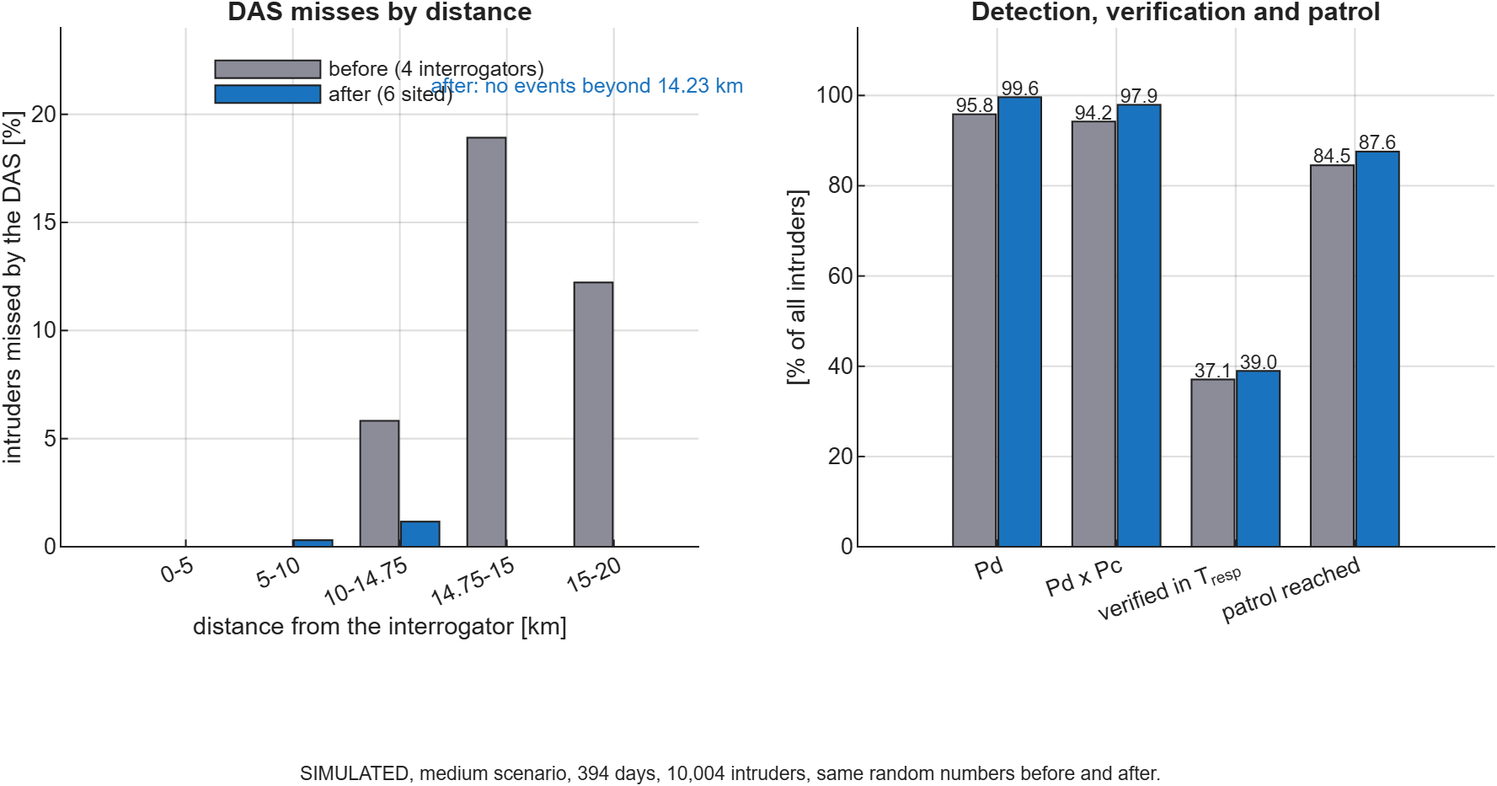
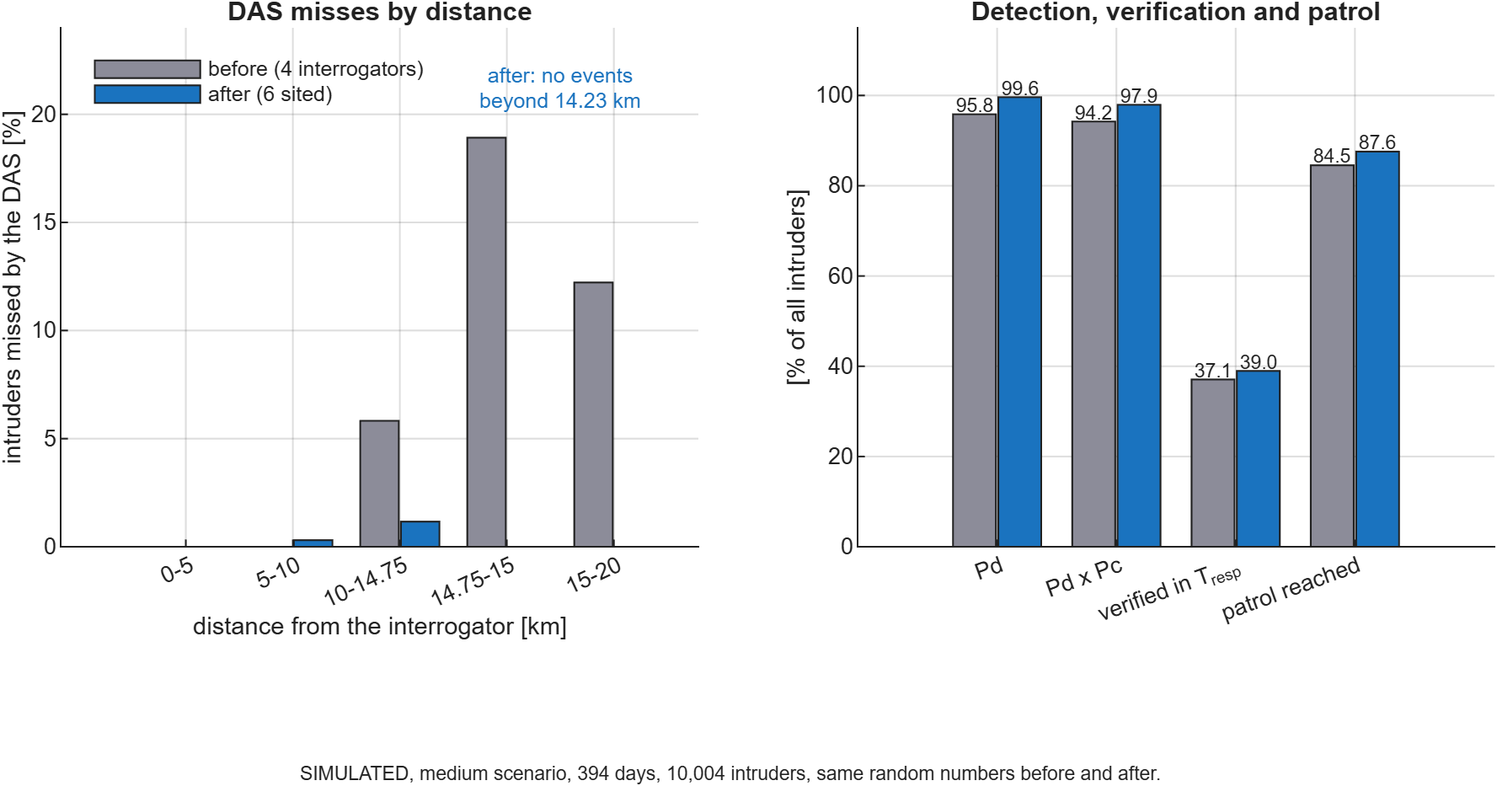
Stage 10 review fixes: open items, decisions 13-18, power total, figures, comparison.csv with shelters
- OPEN_ITEMS: current C_shelter / C_shelter_checkpoint notes; table row P_total_siting (2,040 W = 7.0 % of P0) and key_numbers.
- decisions.md: item 8 corrected, item 10 cancelled by 12, new items 13-18 (unified Pd(d) and d* rule, N = 6, site filters and checkpoint exemption, shelter cost, single verification, buried cable).
- Final package: the 4-interrogator intruder map removed; pd_curve label d* = 14.75 km; before/after chart text moved.
- comparison.csv regenerated with the shelter cost (11,853,506 -> 13,014,986).

Changed region(s): [[0.0619, 0.0622, 0.4952, 0.1554]]

diff --git a/scripts/make_final_package.py b/scripts/make_final_package.py
@@ -66,7 +66,6 @@ figs = [
     ("siting_map_medium.png", "results/siting/siting_map_medium.png", "2D map of the interrogator siting (d* = 14.75 km, N_min = 5, N = 6): candidates, chosen shelters, boundary coloured by the serving shelter. Same result in low and high."),
     ("pd_curve.png", "results/siting/pd_curve.png", "Pd against the optical distance with the monotone fit and its 95 % limits; d* = 14.75 km. SIMULATED."),
     ("stage9_before_after.png", "report/figures/stage9_before_after.png", "Stage 9 before / after the siting model (medium): DAS misses by distance, Pd, Pd x Pc, verified in T_resp, patrol reached. SIMULATED, same random numbers."),
-    ("map2d_intruders_medium_stage8.png", "report/figures/map2d_intruders_medium_stage8.png", "2D map of intruders, Stage 8 run (main model with 4 interrogators; kept for the numbers figures)."),
     ("reid_accuracy_vs_spacing.png", "results/reid/accuracy_vs_spacing.png", "Re-identification (DAS <-> camera) accuracy against the spacing of people (Yomna's protocol, SIMULATED)."),
 ]
 for dst, src, _ in figs:
@@ -89,7 +88,7 @@ for r in P:
     esc = lambda x: x.replace("|", "/").replace("\n", " ")
     md.append(f"| `{r[0]}` | {esc(r[3])} | {esc(r[4])} | {esc(r[7])} | {esc(r[9])} | {esc(r[5])[:160]} |")
 (OUT / "parameters_final.md").write_text("\n".join(md) + "\n", encoding="utf-8")
-open_items = [r for r in P if r[7].upper().startswith(("PLACEHOLDER", "TBD"))]
+open_items = [r for r in P if r[7].upper().startswith(("PLACEHOLDER", "TBD")) or r[0] == "C_shelter_checkpoint"]
 (OUT / "OPEN_ITEMS.md").write_text("# Values still PLACEHOLDER or TBD (need data, a quotation or a decision)\n\n| Symbol | Value | Unit | What is missing |\n| --- | --- | --- | --- |\n" +
                                   "\n".join(f"| `{r[0]}` | {r[3]} | {r[4]} | {r[8].split(' | ')[0][:200].replace('|', '/')} |" for r in open_items) + "\n", encoding="utf-8")
 
@@ -114,7 +113,8 @@ add("New-cabin cost C_shelter", f"{fnum(tv('C_shelter'))} SAR", par["C_shelter"]
 add("Checkpoint-room cost C_shelter_checkpoint", f"{fnum(tv('C_shelter_checkpoint'))} SAR", par["C_shelter_checkpoint"]["status"], "table row `C_shelter_checkpoint`", "25 % of C_shelter")
 add("Shelter cost of the siting solution", f"{fnum(m['shelters_SAR'])} SAR ({m['n_checkpoint_rooms']} checkpoint rooms + {m['n_new_cabins']} new cabins)", "DERIVED", "`results/siting/cost_with_shelters.csv`", "`scripts/siting_cost_table.m`")
 add("C_total, siting model", f"{fnum(m['C_total_SAR'])} SAR", "SIMULATED (MILP)", "`results/siting/cost_with_shelters.csv`; table row `C_total_siting`", f"interrogators {fnum(m['interrogators_SAR'])} + sensing fibre {fnum(m['sensing_fibre_SAR'])} + lead-in {fnum(m['leadin_fibre_SAR'])} + shelters {fnum(m['shelters_SAR'])}; C_DAS_int {fnum(tv('C_DAS_int'))}, C_fiber {tv('C_fiber')} per km (table)")
-add("C_total, main model (4 interrogators, no shelter cost)", f"{fnum([x for x in cmp_ if x['model']=='stage9' and x['scenario']=='medium'][0]['C_total'])} SAR", "SIMULATED (frozen MILP f51b223)", "`results/stage9_siting/comparison.csv` column C_total; `tests/test_stage2.m`", "reproduces optimization/report/key_results.md; computed with C_shelter = 0")
+add("C_total, main model (4 interrogators) and siting model (6), as in the Stage 9 comparison", f"{fnum([x for x in cmp_ if x['model']=='stage9' and x['scenario']=='medium'][0]['C_total'])} SAR -> {fnum([x for x in cmp_ if x['model']=='stage9_siting' and x['scenario']=='medium'][0]['C_total'])} SAR (with shelters; the main model without any shelter cost: 11,373,506)", "SIMULATED (MILP)", "`results/stage9_siting/comparison.csv` column C_total (regenerated with the shelters); `tests/test_stage2.m`", "main model solved with C_shelter = 0 (reproduces optimization/report/key_results.md); its 4 cabins (new, 120,000 each) added"
+)
 add("Cabin price sensitivity (50,000 / 120,000 / 300,000 SAR)", f"{fnum(cost['medium_shello']['C_total_SAR'])} / {fnum(m['C_total_SAR'])} / {fnum(cost['medium_shelhi']['C_total_SAR'])} SAR, same N and sites", "SIMULATED (MILP re-solved)", "`results/siting/cost_with_shelters.csv` (cases medium_shello, medium_shelhi)", "`scripts/siting_run_scn.m` with env SHEL, SHELCHK")
 add("N = 5 forced", f"C_total {fnum(cost['medium_N5']['C_total_SAR'])} SAR; 4 cells (135 of 139 with DAS) uncovered", "SIMULATED (MILP, Nfix = 5)", "`results/siting/cost_with_shelters.csv`; `results/alloc_medium_22_siting_N5.mat`", "`Siting.Nfix` option; difference to N = 6: " + fnum(float(m['C_total_SAR']) - float(cost['medium_N5']['C_total_SAR'])) + " SAR")
 add("d* = 13 km (weakest-type rule)", f"N = {cost['medium_d13']['N']}, C_total {fnum(cost['medium_d13']['C_total_SAR'])} SAR", "SIMULATED (MILP)", "`results/siting/cost_with_shelters.csv` (case medium_d13)", "`scripts/siting_run_scn.m` DSTAR=13")
@@ -147,7 +147,7 @@ for n, v, t, f, h in S:
     e = lambda x: str(x).replace("|", "/")
     lines.append(f"| {e(n)} | {e(v)} | {e(t)} | {e(f)} | {e(h)} |")
 lines += ["", "## Notes",
-          "* Costs: `results/stage9_siting/comparison.csv` still stores C_total = 12,654,986 for the siting model (the Stage 9 rerun was made before the shelter cost was added); the current cost is `results/siting/cost_with_shelters.csv` (13,014,986). The allocation did not change, so no Stage 9 result changed.",
+          "* Costs: `results/stage9_siting/comparison.csv` was regenerated on 24 Nov 2026 with the shelters (main model 11,853,506 = 11,373,506 + 4 new cabins; siting 13,014,986). The allocation did not change, so no Stage 9 result changed.",
           "* All SIMULATED values depend on ASSUMED inputs (coupling spread, intruder rates, speeds); they are results of the model, not measurements. Phase 0 (field measurements) is where they would be replaced.",
           "* Frozen sources: see `third_party/PROVENANCE.md` for every repository, commit and date."]
 (OUT / "SOURCE_MAP.md").write_text("\n".join(lines) + "\n", encoding="utf-8")
@@ -170,7 +170,7 @@ print("package built:", OUT, "| parameter rows", len(P), "| PLACEHOLDER", len(op
 | `OPEN_ITEMS.md` | the rows that are still PLACEHOLDER or TBD |
 | `ai_summary.md` | summary of the AI part (classifier, re-identification, height) with its literature |
 | `assumptions.md`, `decisions.md` | why each assumption / design decision was taken |
-| `figures/` | final figures with `CAPTIONS.md` (3D light and dark, overview and zoom; siting map; Pd(d) curve; Stage 9 before / after; re-identification; 2D intruder map) |
+| `figures/` | final figures with `CAPTIONS.md` (3D light and dark, overview and zoom; siting map; Pd(d) curve; Stage 9 before / after; re-identification) |
 | `tables/` | the CSV / JSON files behind the numbers (cost with shelters, sites, Pd curve, d* rule, Stage 9 comparison) |
 
 Rebuild with `python scripts/make_final_package.py`. Everything is SIMULATED unless a row says it is sourced; frozen sources and commits are in `third_party/PROVENANCE.md`.

diff --git a/scripts/final_stage9_chart.m b/scripts/final_stage9_chart.m
@@ -8,8 +8,8 @@ fig = figure('Color', 'w', 'Units', 'centimeters', 'Position', [2 2 16 8.4], 'In
 ax = axes(fig, 'Position', [0.08 0.30 0.40 0.62]);   hold(ax, 'on');   bins = {'0-5', '5-10', '10-14.75', '14.75-15', '15-20'};   bf = strcmp(D.model, 'stage9');   af = strcmp(D.model, 'stage9_siting');
 yb = D.missed_pct(bf);   ya = zeros(5, 1);   ya(1:3) = D.missed_pct(af);   ya(4:5) = NaN;                    % after the change no event is farther than 14.23 km: the bins above 14.75 km are empty
 bar(ax, (1:5) - 0.19, yb, 0.36, 'FaceColor', cb);   bar(ax, (1:3) + 0.19, ya(1:3), 0.36, 'FaceColor', ca);   set(ax, 'XTick', 1:5, 'XTickLabel', bins, 'FontSize', 6.5, 'XTickLabelRotation', 25);   xlabel(ax, 'distance from the interrogator [km]', 'FontSize', 7);   ylabel(ax, 'intruders missed by the DAS [%]', 'FontSize', 7);
-text(ax, 4.75, 21.3, {'after: no events beyond 14.23 km'}, 'FontSize', 6, 'Color', ca, 'HorizontalAlignment', 'center');
-legend(ax, {'before (4 interrogators)', 'after (6 sited)'}, 'FontSize', 6, 'Location', 'north', 'Box', 'off');   title(ax, 'DAS misses by distance', 'FontSize', 7.5);   grid(ax, 'on');
+text(ax, 4.5, 21.2, {'after: no events', 'beyond 14.23 km'}, 'FontSize', 6, 'Color', ca, 'HorizontalAlignment', 'center');
+legend(ax, {'before (4 interrogators)', 'after (6 sited)'}, 'FontSize', 6, 'Location', 'northwest', 'Box', 'off');   title(ax, 'DAS misses by distance', 'FontSize', 7.5);   grid(ax, 'on');
 ax2 = axes(fig, 'Position', [0.58 0.30 0.40 0.62]);   hold(ax2, 'on');   mets = {'Pd', 'Pd_x_Pc', 'verified_Tresp', 'patrol_reached'};   lab = {'Pd', 'Pd x Pc', 'verified in T_{resp}', 'patrol reached'};   vb = zeros(4, 1);   va = vb;
 for k = 1:4, vb(k) = 100 * C.value(strcmp(C.model, 'stage9') & strcmp(C.metric, mets{k}));   va(k) = 100 * C.value(strcmp(C.model, 'stage9_siting') & strcmp(C.metric, mets{k})); end
 bar(ax2, (1:4) - 0.19, vb, 0.36, 'FaceColor', cb);   bar(ax2, (1:4) + 0.19, va, 0.36, 'FaceColor', ca);   set(ax2, 'XTick', 1:4, 'XTickLabel', lab, 'FontSize', 6.5, 'XTickLabelRotation', 20);   ylabel(ax2, '[% of all intruders]', 'FontSize', 7);   ylim(ax2, [0 115]);   ylim(ax, [0 24]);

diff --git a/scripts/siting_pd_analyze.m b/scripts/siting_pd_analyze.m
@@ -42,7 +42,7 @@ json = struct('Pd_target', Pt, 'rule', 'd* = farthest distance with the LOWER 95
 fid = fopen(fullfile(od, 'd_star.json'), 'w');   fprintf(fid, '%s', jsonencode(json, 'PrettyPrint', true));   fclose(fid);
 fprintf('d* (lower-95-limit rule, type MIX) = %.2f km | weakest-type rule (info) %.2f km | point-estimate rule %.2f km | upper-limit rule %.1f km | FEBUS option %d km | N_min = ceil(%.2f / %.1f) = %d\n', dstar, dstar_weak, dstar_pt, dstar_hi, opt, L, 2 * dstar, Nmin);
 fig = figure('Color', 'w', 'Position', [60 60 1000 520]);   ax = axes(fig);   hold(ax, 'on');   fill(ax, [dd(:); flipud(dd(:))], 100 * [lo; flipud(hi)], [0.75 0.85 0.95], 'EdgeColor', 'none', 'FaceAlpha', 0.7);
-plot(ax, dd, 100 * pm, 'o', 'Color', [0.05 0.3 0.7], 'MarkerSize', 4);   plot(ax, dd, 100 * fit, 'r-', 'LineWidth', 1.4);   plot(ax, dd, 100 * lo, 'b--', 'LineWidth', 1);   yline(ax, 100 * Pt, 'k--', sprintf('Pd_{DAS} = %.3f', Pt));   xline(ax, dstar, 'g-', sprintf('d* = %.1f km', dstar), 'LineWidth', 1.5);
+plot(ax, dd, 100 * pm, 'o', 'Color', [0.05 0.3 0.7], 'MarkerSize', 4);   plot(ax, dd, 100 * fit, 'r-', 'LineWidth', 1.4);   plot(ax, dd, 100 * lo, 'b--', 'LineWidth', 1);   yline(ax, 100 * Pt, 'k--', sprintf('Pd_{DAS} = %.3f', Pt));   xline(ax, dstar, 'g-', 'LineWidth', 1.5);   text(ax, dstar + 0.3, 79, sprintf('d* = %.2f km', dstar), 'Color', [0 0.55 0], 'FontWeight', 'bold', 'FontSize', 11);
 xlabel(ax, 'total optical distance from the interrogator d [km]');   ylabel(ax, 'Pd [%]');   ylim(ax, [75 101]);   grid(ax, 'on');   legend(ax, {'95 % limits of the monotone fit', 'observed Pd (type mix)', 'monotone fit', 'lower 95 % limit'}, 'Location', 'southwest');
 title(ax, 'Detection probability vs optical distance (SIMULATED, FEBUS A1-NEO, 0.2 dB/km; 80 windows per type at 0-11 and 21-25 km; 400-1,000 per type at 12-20 km)', 'FontSize', 8);
 exportgraphics(fig, fullfile(od, 'pd_curve.png'), 'Resolution', 200);   close(fig);

diff --git a/scripts/stage9_compare.m b/scripts/stage9_compare.m
@@ -8,8 +8,9 @@ for k = 1:numel(sc)
         if v == 1, A = load(fullfile(root, 'results', ['alloc_' sc{k} '_22.mat'])); else, A = load(fullfile(root, 'results', ['alloc_' sc{k} '_22_siting.mat'])); end
         ia = A.alloc.interrogators;   lead = zeros(size(ia.arc_m(:)'));   if isfield(ia, 'leadin_m'), lead = ia.leadin_m(:)'; end
         sp = r.s(E.piece);   sp = sp(:);   d = abs(sp - ia.arc_m(:)');   d = min(d, L - d) + lead;   dist = min(d, [], 2);
+        Ct = A.alloc.C_total;   if v == 1, Ct = Ct + A.alloc.n_interrogators * P.v.C_shelter; end      % C_total WITH shelters: the siting allocation includes them; the main allocation was solved with C_shelter = 0, so its 4 cabins (all new, 120,000 each) are added
         M = compute_metrics(E, FA, T, P);   m = M.rows;
-        for q = 1:numel(mets), i = find(strcmp(m.metric, mets{q}), 1);   rows = [rows; table(string(sc{k}), string(dirn{v}), string(mets{q}), m.value(i), m.lo(i), m.hi(i), A.alloc.n_interrogators, A.alloc.C_total, FA.nDays, height(E), 'VariableNames', {'scenario', 'model', 'metric', 'value', 'lo', 'hi', 'n_interrogators', 'C_total', 'days', 'events'})]; end %#ok<AGROW>
+        for q = 1:numel(mets), i = find(strcmp(m.metric, mets{q}), 1);   rows = [rows; table(string(sc{k}), string(dirn{v}), string(mets{q}), m.value(i), m.lo(i), m.hi(i), A.alloc.n_interrogators, Ct, FA.nDays, height(E), 'VariableNames', {'scenario', 'model', 'metric', 'value', 'lo', 'hi', 'n_interrogators', 'C_total', 'days', 'events'})]; end %#ok<AGROW>
         for b = 1:numel(edges) - 1
             mk = dist >= edges(b) & dist < edges(b+1);   if ~any(mk), continue; end
             byd = [byd; table(string(sc{k}), string(dirn{v}), edges(b)/1e3, edges(b+1)/1e3, nnz(mk), 100 * mean(~E.detected(mk)), 'VariableNames', {'scenario', 'model', 'from_km', 'to_km', 'events', 'missed_pct'})]; end %#ok<AGROW>

diff --git a/report/decisions.md b/report/decisions.md
@@ -7,8 +7,14 @@
 5. **Profiling naming and use of height** (Yomna, 22 Nov): 0.4 m is a *channel spacing*; SNR is computed with her `detection_snr_db`, and the 12 dB threshold comes from simulation (the real value is measured in Phase 0); height is exploratory (+/- 8 cm), used only to exclude a match (difference >= `dh_reid_max` = 25 cm, parameter), never to identify or confirm a person. The primary claim of the DAS is stride length, speed and cadence.
 6. **DASViT1D** accuracy (93.5 %, published) is for another device and site (Brno dataset); accuracy on FEBUS is unknown until tested on real data.
 7. **Simulated Pd_DAS is a result next to the literature value** (user decision 22 Nov): the library gives 0.977 for intrusion types (`tests/test_stage4.m`) next to the literature Pd_DAS = 0.969 (`zeng2024`). The optimization keeps the literature value. The 0.977 depends on the ASSUMED amplitudes and the ASSUMED ground-coupling spread (log-normal, sigma 0.4): with a lower mean coupling or a larger spread it falls, so it must not replace Pd_DAS until it is calibrated on real recordings (Phase 0).
-8. **Maps** show Esri World Imagery (attribution printed on every figure; the Esri terms for this use are still to be confirmed), the named places (Masjid al-Haram, Jamarat, Mina, Muzdalifah, Arafat), the five covered entrance checkpoints by name, a 10 km scale bar and a north arrow.
+8. **Maps** show Esri World Imagery (attribution printed on every figure; the Esri terms for this use are still to be confirmed), the named places (Masjid al-Haram, Jamarat, Mina, Muzdalifah, Arafat), the entrance checkpoints by name (Al-Sharaye, Al-Hada, Al-Nawariyah, Al-Shumaisi (new), Al-Shumaisi old (Hudaybiyah)), a scale bar (3 km on the 3D overview, 2 km on the 3D zoom, 10 km on the 2D maps) and a north arrow. Corrected 24 Nov 2026 (it said a 10 km bar and five checkpoints).
 9. **Class "other"** (longboard, open/close, plus nothing else): kept as its own class in training; in the simulation it means "non-intrusion, no alarm". The report states how much of it is classified as a threat (user decision 22 Nov).
-10. **Manipulation is a threat** (tampering with the fibre or the fence disables the monitoring system): merged with fence/impact into one class "climbing" = interaction with the fence or the fibre. Mapping to our classes: walking, running, vehicle, construction -> digging, fence + manipulation -> climbing, regular -> no_event, longboard + open/close -> other. Class animal has NO training data (PLACEHOLDER).
+10. **Manipulation is a threat** (tampering with the fibre or the fence disables the monitoring system): merged with fence/impact into one class "climbing" = interaction with the fence or the fibre. Mapping to our classes: walking, running, vehicle, construction -> digging, fence + manipulation -> climbing, regular -> no_event, longboard + open/close -> other. Class animal has NO training data (PLACEHOLDER). **CANCELLED by decision 12** (manipulation = `tampering`, longboard + open/close = `other`).
 11. **Evaluation split** (Yomna + user): leave-one-recording-out, never random windows. The random-window accuracy is also computed to show how much it inflates the published 93.5 %. The split file of DASViT1D (`splits/split_indices.pkl`) is not used.
 12. **Class map and splits follow Yomna's protocol (23 Nov).** `config/class_map.yaml` (nothing dropped silently; longboard and open/close are merged into the documented non-alarm class `other`; manipulation = `tampering`, changing decision 10), `config/splits.json` (written once, seed 20261122) and `config/splits_addendum.json` (single-recording diagnostic 80 / gap / 20). Re-identification (`reidentify`) is Yomna's: not started here until her design arrives.
+13. **One Pd(d) model for the optimization and the simulation, and the d\* rule (23 Nov 2026).** `results/siting/pd_model.mat` (monotone, isotonic Pd against the total optical distance, per intruder type, from the windows of the frozen engine) is used both to derive d\* and by `das_observe` for the detection decision (private random stream seeded from the event, so the common random numbers are kept). **Rule fixed before the dense run (table row `siting_dstar_rule`):** d\* = the farthest distance up to which the lower 95 % limit of the monotone Pd(d), taken on the **overall Pd with the type shares of the Stage 9 run** (walking 49.6 %, running 19.1 %, vehicle 15.6 %, digging 5.4 %, climbing 10.3 %), stays at or above Pd_DAS = 0.969. **Result: d\* = 14.75 km** (weakest-type rule 13 km, point estimate 15 km, upper limit 17 km, first coarse run 17 km; shown for comparison only). Why: the first Stage 9 gave Pd 95.8 % while the optimization assumed 0.969 at every distance; the cause was the 12-window library with nearest-bin lookup (mix Pd 0.854 at the 15 km bin against 0.975 in the dense run).
+14. **N = 6 interrogators (23 Nov 2026).** Analytic minimum N_min = ceil(145.47 / (2 x 14.75)) = 5. The MILP with candidate shelters gives 6 in low, medium and high (same six sites, boundary arcs 8.70, 29.58, 58.44, 85.95, 108.90, 125.19 km): with N = 5 forced the stage-1 coverage term is still violated, 4 cells (about 4.1-4.2 km) stay without DAS; N = 7 is what the weakest-type rule (d\* = 13 km) gives. The slack of N = 5 is only 0.2 km per side (14.75 against 14.55 km). Eight siting sensitivities (slope, road, waterway, inside distance) all give N = 6. The old main model (4 interrogators) is kept for comparison.
+15. **Shelter site filters and the checkpoint exemption (23 Nov 2026).** A road-site shelter must stand inside the boundary polygon 50-200 m from the boundary line, within 200 m of a road, on a slope below 10 %, at least 50 m from an OSM waterway, at most one candidate per 300 m of arc (all ASSUMED, table rows `siting_*`). The five entrance checkpoints are always candidates whatever the filters say (row `siting_checkpoint_exempt`): they already have a building, power, access and staff. The Al-Shumaisi (new) checkpoint has a slope of 15.3 % and is used for that reason. Lead-in fibre = 1.4 x the straight distance, added to the cost and to the optical distance.
+16. **Shelter cost and cooling (24 Nov 2026).** Every interrogator needs an air-conditioned shelter (5-40 degC). C_shelter = 120,000 SAR per new cabin (PLACEHOLDER: no Saudi price found, needs a quotation); at an entrance checkpoint 30,000 SAR (ASSUMED, existing building). Six sites: 4 checkpoint rooms + 2 new cabins = 360,000 SAR; C_total 13,014,986 SAR. Cooling 170 W per cabin (50 % of the site load, gsma_coolsure) is part of the power: 6 x (170 + 170) = 2,040 W = 7.0 % of P0 = 29,100 W. N and the sites do not change for cabin prices of 50,000-300,000 SAR.
+17. **Single verification before a patrol (Stage 6).** Dual verification (a second check by another drone or camera before sending a patrol) was tested as options B (everywhere) and C (Neutral and Cold only) and rejected: in the medium scenario it lowers the false patrols by only 0 to 13 % (0.200 -> 0.199 per km per day) while the patrol reached falls from 87.5 % to 59.6 % and the median verification time rises from 518 s to 1,193 s, because a second mission occupies the scarce drones (busy for the mission and the 27 min charge). The base is the single verification (option A).
+18. **The cable is buried (decision D3).** The fibre is buried along the boundary, not mounted on the fence (table row `D3_installation`). It supports the log-normal ground-coupling factor of the DAS window library (sigma 0.4, ASSUMED) and removes the fence-mounted case from the classifier protocol; the real coupling is to be measured in Phase 0.

diff --git a/report/final/decisions.md b/report/final/decisions.md
@@ -7,8 +7,14 @@
 5. **Profiling naming and use of height** (Yomna, 22 Nov): 0.4 m is a *channel spacing*; SNR is computed with her `detection_snr_db`, and the 12 dB threshold comes from simulation (the real value is measured in Phase 0); height is exploratory (+/- 8 cm), used only to exclude a match (difference >= `dh_reid_max` = 25 cm, parameter), never to identify or confirm a person. The primary claim of the DAS is stride length, speed and cadence.
 6. **DASViT1D** accuracy (93.5 %, published) is for another device and site (Brno dataset); accuracy on FEBUS is unknown until tested on real data.
 7. **Simulated Pd_DAS is a result next to the literature value** (user decision 22 Nov): the library gives 0.977 for intrusion types (`tests/test_stage4.m`) next to the literature Pd_DAS = 0.969 (`zeng2024`). The optimization keeps the literature value. The 0.977 depends on the ASSUMED amplitudes and the ASSUMED ground-coupling spread (log-normal, sigma 0.4): with a lower mean coupling or a larger spread it falls, so it must not replace Pd_DAS until it is calibrated on real recordings (Phase 0).
-8. **Maps** show Esri World Imagery (attribution printed on every figure; the Esri terms for this use are still to be confirmed), the named places (Masjid al-Haram, Jamarat, Mina, Muzdalifah, Arafat), the five covered entrance checkpoints by name, a 10 km scale bar and a north arrow.
+8. **Maps** show Esri World Imagery (attribution printed on every figure; the Esri terms for this use are still to be confirmed), the named places (Masjid al-Haram, Jamarat, Mina, Muzdalifah, Arafat), the entrance checkpoints by name (Al-Sharaye, Al-Hada, Al-Nawariyah, Al-Shumaisi (new), Al-Shumaisi old (Hudaybiyah)), a scale bar (3 km on the 3D overview, 2 km on the 3D zoom, 10 km on the 2D maps) and a north arrow. Corrected 24 Nov 2026 (it said a 10 km bar and five checkpoints).
 9. **Class "other"** (longboard, open/close, plus nothing else): kept as its own class in training; in the simulation it means "non-intrusion, no alarm". The report states how much of it is classified as a threat (user decision 22 Nov).
-10. **Manipulation is a threat** (tampering with the fibre or the fence disables the monitoring system): merged with fence/impact into one class "climbing" = interaction with the fence or the fibre. Mapping to our classes: walking, running, vehicle, construction -> digging, fence + manipulation -> climbing, regular -> no_event, longboard + open/close -> other. Class animal has NO training data (PLACEHOLDER).
+10. **Manipulation is a threat** (tampering with the fibre or the fence disables the monitoring system): merged with fence/impact into one class "climbing" = interaction with the fence or the fibre. Mapping to our classes: walking, running, vehicle, construction -> digging, fence + manipulation -> climbing, regular -> no_event, longboard + open/close -> other. Class animal has NO training data (PLACEHOLDER). **CANCELLED by decision 12** (manipulation = `tampering`, longboard + open/close = `other`).
 11. **Evaluation split** (Yomna + user): leave-one-recording-out, never random windows. The random-window accuracy is also computed to show how much it inflates the published 93.5 %. The split file of DASViT1D (`splits/split_indices.pkl`) is not used.
 12. **Class map and splits follow Yomna's protocol (23 Nov).** `config/class_map.yaml` (nothing dropped silently; longboard and open/close are merged into the documented non-alarm class `other`; manipulation = `tampering`, changing decision 10), `config/splits.json` (written once, seed 20261122) and `config/splits_addendum.json` (single-recording diagnostic 80 / gap / 20). Re-identification (`reidentify`) is Yomna's: not started here until her design arrives.
+13. **One Pd(d) model for the optimization and the simulation, and the d\* rule (23 Nov 2026).** `results/siting/pd_model.mat` (monotone, isotonic Pd against the total optical distance, per intruder type, from the windows of the frozen engine) is used both to derive d\* and by `das_observe` for the detection decision (private random stream seeded from the event, so the common random numbers are kept). **Rule fixed before the dense run (table row `siting_dstar_rule`):** d\* = the farthest distance up to which the lower 95 % limit of the monotone Pd(d), taken on the **overall Pd with the type shares of the Stage 9 run** (walking 49.6 %, running 19.1 %, vehicle 15.6 %, digging 5.4 %, climbing 10.3 %), stays at or above Pd_DAS = 0.969. **Result: d\* = 14.75 km** (weakest-type rule 13 km, point estimate 15 km, upper limit 17 km, first coarse run 17 km; shown for comparison only). Why: the first Stage 9 gave Pd 95.8 % while the optimization assumed 0.969 at every distance; the cause was the 12-window library with nearest-bin lookup (mix Pd 0.854 at the 15 km bin against 0.975 in the dense run).
+14. **N = 6 interrogators (23 Nov 2026).** Analytic minimum N_min = ceil(145.47 / (2 x 14.75)) = 5. The MILP with candidate shelters gives 6 in low, medium and high (same six sites, boundary arcs 8.70, 29.58, 58.44, 85.95, 108.90, 125.19 km): with N = 5 forced the stage-1 coverage term is still violated, 4 cells (about 4.1-4.2 km) stay without DAS; N = 7 is what the weakest-type rule (d\* = 13 km) gives. The slack of N = 5 is only 0.2 km per side (14.75 against 14.55 km). Eight siting sensitivities (slope, road, waterway, inside distance) all give N = 6. The old main model (4 interrogators) is kept for comparison.
+15. **Shelter site filters and the checkpoint exemption (23 Nov 2026).** A road-site shelter must stand inside the boundary polygon 50-200 m from the boundary line, within 200 m of a road, on a slope below 10 %, at least 50 m from an OSM waterway, at most one candidate per 300 m of arc (all ASSUMED, table rows `siting_*`). The five entrance checkpoints are always candidates whatever the filters say (row `siting_checkpoint_exempt`): they already have a building, power, access and staff. The Al-Shumaisi (new) checkpoint has a slope of 15.3 % and is used for that reason. Lead-in fibre = 1.4 x the straight distance, added to the cost and to the optical distance.
+16. **Shelter cost and cooling (24 Nov 2026).** Every interrogator needs an air-conditioned shelter (5-40 degC). C_shelter = 120,000 SAR per new cabin (PLACEHOLDER: no Saudi price found, needs a quotation); at an entrance checkpoint 30,000 SAR (ASSUMED, existing building). Six sites: 4 checkpoint rooms + 2 new cabins = 360,000 SAR; C_total 13,014,986 SAR. Cooling 170 W per cabin (50 % of the site load, gsma_coolsure) is part of the power: 6 x (170 + 170) = 2,040 W = 7.0 % of P0 = 29,100 W. N and the sites do not change for cabin prices of 50,000-300,000 SAR.
+17. **Single verification before a patrol (Stage 6).** Dual verification (a second check by another drone or camera before sending a patrol) was tested as options B (everywhere) and C (Neutral and Cold only) and rejected: in the medium scenario it lowers the false patrols by only 0 to 13 % (0.200 -> 0.199 per km per day) while the patrol reached falls from 87.5 % to 59.6 % and the median verification time rises from 518 s to 1,193 s, because a second mission occupies the scarce drones (busy for the mission and the 27 min charge). The base is the single verification (option A).
+18. **The cable is buried (decision D3).** The fibre is buried along the boundary, not mounted on the fence (table row `D3_installation`). It supports the log-normal ground-coupling factor of the DAS window library (sigma 0.4, ASSUMED) and removes the fence-mounted case from the classifier protocol; the real coupling is to be measured in Phase 0.

diff --git a/report/final/SOURCE_MAP.md b/report/final/SOURCE_MAP.md
@@ -18,7 +18,7 @@ Part B: the result numbers below. The value column is read programmatically from
 | Checkpoint-room cost C_shelter_checkpoint | 30,000 SAR | ASSUMED | table row `C_shelter_checkpoint` | 25 % of C_shelter |
 | Shelter cost of the siting solution | 360,000 SAR (4 checkpoint rooms + 2 new cabins) | DERIVED | `results/siting/cost_with_shelters.csv` | `scripts/siting_cost_table.m` |
 | C_total, siting model | 13,014,986 SAR | SIMULATED (MILP) | `results/siting/cost_with_shelters.csv`; table row `C_total_siting` | interrogators 3,816,000 + sensing fibre 8,829,506 + lead-in 9,480 + shelters 360,000; C_DAS_int 636,000, C_fiber 60700 per km (table) |
-| C_total, main model (4 interrogators, no shelter cost) | 11,373,506 SAR | SIMULATED (frozen MILP f51b223) | `results/stage9_siting/comparison.csv` column C_total; `tests/test_stage2.m` | reproduces optimization/report/key_results.md; computed with C_shelter = 0 |
+| C_total, main model (4 interrogators) and siting model (6), as in the Stage 9 comparison | 11,853,506 SAR -> 13,014,986 SAR (with shelters; the main model without any shelter cost: 11,373,506) | SIMULATED (MILP) | `results/stage9_siting/comparison.csv` column C_total (regenerated with the shelters); `tests/test_stage2.m` | main model solved with C_shelter = 0 (reproduces optimization/report/key_results.md); its 4 cabins (new, 120,000 each) added |
 | Cabin price sensitivity (50,000 / 120,000 / 300,000 SAR) | 12,774,986 / 13,014,986 / 13,854,986 SAR, same N and sites | SIMULATED (MILP re-solved) | `results/siting/cost_with_shelters.csv` (cases medium_shello, medium_shelhi) | `scripts/siting_run_scn.m` with env SHEL, SHELCHK |
 | N = 5 forced | C_total 12,285,758 SAR; 4 cells (135 of 139 with DAS) uncovered | SIMULATED (MILP, Nfix = 5) | `results/siting/cost_with_shelters.csv`; `results/alloc_medium_22_siting_N5.mat` | `Siting.Nfix` option; difference to N = 6: 729,228 SAR |
 | d* = 13 km (weakest-type rule) | N = 7, C_total 13,963,473 SAR | SIMULATED (MILP) | `results/siting/cost_with_shelters.csv` (case medium_d13) | `scripts/siting_run_scn.m` DSTAR=13 |
@@ -35,11 +35,11 @@ Part B: the result numbers below. The value column is read programmatically from
 | Group sensitivity p_group 25 % / 50 % (persons) | 16,089 / 22,547 persons for 10,004 events | SIMULATED; p_group ASSUMED | `results/stage9_siting/metrics_summary.csv` |  |
 | Brno confusion matrix (SENSITIVITY only): Pc given detection | 58.4 % (base uniform stub 98.3 %) | SIMULATED; matrix from published dataset | `results/stage9_siting/metrics_summary.csv`; `config/ai_config.json` | base = uniform stub from Pc_DAS (ASSUMED); the matrix is a sensitivity |
 | Re-identification target 0.97 kept in the hard cells | NOT kept (see `report/reid_summary.md`) | SIMULATED, ASSUMED errors | `results/reid/summary.json`, `results/reid/reid_grid.csv` | 1296 cells x 300 scenes; design is Yomna's, run only through her protocol in `reid/` |
-| Number of table rows with status PLACEHOLDER or TBD | 28 | - | `report/final/OPEN_ITEMS.md` | listed one by one |
+| Number of table rows with status PLACEHOLDER or TBD | 29 | - | `report/final/OPEN_ITEMS.md` | listed one by one |
 | Not in this map: numbers of the AI summary | - | - | `report/final/ai_summary.md` | each has its own bib key (`report/references_additions.bib`) |
 | Numbers of the Stages 1-9 text in key_numbers.md | see file | SIMULATED / DERIVED | `report/key_numbers.md` | each section names its test or script (`tests/test_stage1.m` ... `tests/test_stage6.m`, `scripts/`); re-running the test reproduces the value |
 
 ## Notes
-* Costs: `results/stage9_siting/comparison.csv` still stores C_total = 12,654,986 for the siting model (the Stage 9 rerun was made before the shelter cost was added); the current cost is `results/siting/cost_with_shelters.csv` (13,014,986). The allocation did not change, so no Stage 9 result changed.
+* Costs: `results/stage9_siting/comparison.csv` was regenerated on 24 Nov 2026 with the shelters (main model 11,853,506 = 11,373,506 + 4 new cabins; siting 13,014,986). The allocation did not change, so no Stage 9 result changed.
 * All SIMULATED values depend on ASSUMED inputs (coupling spread, intruder rates, speeds); they are results of the model, not measurements. Phase 0 (field measurements) is where they would be replaced.
 * Frozen sources: see `third_party/PROVENANCE.md` for every repository, commit and date.

diff --git a/report/final/key_numbers.md b/report/final/key_numbers.md
@@ -160,6 +160,7 @@ For a like-for-like comparison, the main model with its four interrogators house
 * **C_shelter = 120,000 SAR per NEW cabin (PLACEHOLDER).** No published Saudi price for an air-conditioned prefabricated equipment shelter was found (search of 24 Nov 2026: only a cabinet-air-conditioner installation fee of 500 SAR, labour only). The value is an order of magnitude to be replaced by a supplier quotation. **At an entrance checkpoint** the interrogator uses an existing building (power, access, staff), so only the equipment room costs: 25 % of the cabin = 30,000 SAR (ASSUMED).
 * **Result:** 4 checkpoint rooms x 30,000 + 2 new road-site cabins x 120,000 = **360,000 SAR (2.8 % of C_total)**. The MILP now includes the shelter cost in stage 2 (cost per site kind): **N = 6 and the six sites are exactly the same** in low, medium and high.
 * **Sensitivity of the price (medium, MILP re-solved):** cabin 50,000 / checkpoint room 5,000 -> C_total 12,774,986; cabin 120,000 / 30,000 (base) -> 13,014,986; cabin 300,000 / 150,000 -> 13,854,986. **Same N = 6 and same six sites in all three** (arcs 8.70, 29.58, 58.44, 85.95, 108.90, 125.19 km). The shelter cost is 0.9 % to 8.7 % of C_total over that range, so it cannot change the conclusion about N.
+* **Total power with the cooling (table row `P_total_siting`, 24 Nov 2026):** 6 x (P_DAS 170 W + P_shelter 170 W) = **2,040 W** (cooling alone 1,020 W, 50 % of the site load, gsma_coolsure), **7.0 % of the power budget P0 = 29,100 W: below P0** (the MILP constraint (P_DAS + P_shelter) x N < P0 holds with a margin of 27,060 W). The main model (4 sites) draws 1,360 W (4.7 % of P0). The table row `P_DAS_total` = 680 W excludes the cooling and is the interrogators of the main model only.
 * **Air-conditioning energy:** P_shelter = 170 W per cabin (cooling share of the site load 170 / 340 = 50 %, the upper end of the 30-50 % of gsma_coolsure, taken for Makkah heat) -> 1,489 kWh per year per cabin (continuous, upper bound) -> **8,935 kWh per year for the six** cabins; with the interrogators (170 W each) the six sites draw 2,040 W = 17,870 kWh per year, 7.0 % of P0 = 29,100 W. No operating cost in SAR is modelled (no tariff in the table).
 The model has no operating cost in SAR, only the power draw (within the P0 budget in both). Drones (12 in the medium scenario) are the same in both models and are not part of C_total.
 
@@ -167,4 +168,4 @@ The model has no operating cost in SAR, only the power draw (within the P0 budge
 * **DAS miss share by optical distance (medium):** before 0.00 % below 10 km, 5.8 % at 10-14.75 km, 12.2 % at 15-20 km; after 0.03 % (0-5 km), 0.30 % (5-10 km), 1.16 % (10-14.75 km), and no event farther than 14.23 km. Overall **Pd 95.8 % -> 99.6 %** (medium; low 96.4, high 95.9 before; 99.6 in all three after, because the three scenarios now have the same interrogators).
 * **Pd x Pc** 94.2 % -> 97.9 % (medium). **Verified within T_resp** (all intruders): medium 37.1 % -> 39.0 %, Hot zone 48.9 % -> 51.0 %; low 19.5 % -> 19.4 %; high 69.5 % -> 73.2 %. **Patrol reached:** medium 84.5 % -> 87.6 %, low 66.5 % -> 65.8 %, high 85.3 % -> 88.6 %. Median verification time (medium) 486 s -> 494 s.
 * **Intruders NOT verified within T_resp even with one verification (medium): 62.9 % before, 61.0 % after** (the 63 % of the Stage 6 table). The siting model fixes the DAS misses; the T_resp limit remains and is about the drone side, not the detection.
-* Cost: 4 -> 6 interrogators, 11,373,506 -> 12,654,986 SAR (+1,281,480) when the Stage 9 rerun was made; with the shelter cost added on 24 Nov 2026 the siting model costs 13,014,986 SAR. The allocation (N and sites) did not change, so the Stage 9 results are unchanged. The Pd after the change is above the 0.969 assumed by the optimization because no event is farther than d* (14.75 km).
+* Cost (`results/stage9_siting/comparison.csv`, regenerated 24 Nov 2026 WITH the shelters): 4 -> 6 interrogators, 11,853,506 -> 13,014,986 SAR (+1,161,480). The 11,853,506 is the main model's 11,373,506 plus its four interrogators in new cabins (4 x 120,000); without any shelter cost the figures are 11,373,506 and 12,654,986. The allocation (N and sites) did not change with the shelter cost, so no Stage 9 result changed.

diff --git a/report/key_numbers.md b/report/key_numbers.md
@@ -160,6 +160,7 @@ For a like-for-like comparison, the main model with its four interrogators house
 * **C_shelter = 120,000 SAR per NEW cabin (PLACEHOLDER).** No published Saudi price for an air-conditioned prefabricated equipment shelter was found (search of 24 Nov 2026: only a cabinet-air-conditioner installation fee of 500 SAR, labour only). The value is an order of magnitude to be replaced by a supplier quotation. **At an entrance checkpoint** the interrogator uses an existing building (power, access, staff), so only the equipment room costs: 25 % of the cabin = 30,000 SAR (ASSUMED).
 * **Result:** 4 checkpoint rooms x 30,000 + 2 new road-site cabins x 120,000 = **360,000 SAR (2.8 % of C_total)**. The MILP now includes the shelter cost in stage 2 (cost per site kind): **N = 6 and the six sites are exactly the same** in low, medium and high.
 * **Sensitivity of the price (medium, MILP re-solved):** cabin 50,000 / checkpoint room 5,000 -> C_total 12,774,986; cabin 120,000 / 30,000 (base) -> 13,014,986; cabin 300,000 / 150,000 -> 13,854,986. **Same N = 6 and same six sites in all three** (arcs 8.70, 29.58, 58.44, 85.95, 108.90, 125.19 km). The shelter cost is 0.9 % to 8.7 % of C_total over that range, so it cannot change the conclusion about N.
+* **Total power with the cooling (table row `P_total_siting`, 24 Nov 2026):** 6 x (P_DAS 170 W + P_shelter 170 W) = **2,040 W** (cooling alone 1,020 W, 50 % of the site load, gsma_coolsure), **7.0 % of the power budget P0 = 29,100 W: below P0** (the MILP constraint (P_DAS + P_shelter) x N < P0 holds with a margin of 27,060 W). The main model (4 sites) draws 1,360 W (4.7 % of P0). The table row `P_DAS_total` = 680 W excludes the cooling and is the interrogators of the main model only.
 * **Air-conditioning energy:** P_shelter = 170 W per cabin (cooling share of the site load 170 / 340 = 50 %, the upper end of the 30-50 % of gsma_coolsure, taken for Makkah heat) -> 1,489 kWh per year per cabin (continuous, upper bound) -> **8,935 kWh per year for the six** cabins; with the interrogators (170 W each) the six sites draw 2,040 W = 17,870 kWh per year, 7.0 % of P0 = 29,100 W. No operating cost in SAR is modelled (no tariff in the table).
 The model has no operating cost in SAR, only the power draw (within the P0 budget in both). Drones (12 in the medium scenario) are the same in both models and are not part of C_total.
 
@@ -167,4 +168,4 @@ The model has no operating cost in SAR, only the power draw (within the P0 budge
 * **DAS miss share by optical distance (medium):** before 0.00 % below 10 km, 5.8 % at 10-14.75 km, 12.2 % at 15-20 km; after 0.03 % (0-5 km), 0.30 % (5-10 km), 1.16 % (10-14.75 km), and no event farther than 14.23 km. Overall **Pd 95.8 % -> 99.6 %** (medium; low 96.4, high 95.9 before; 99.6 in all three after, because the three scenarios now have the same interrogators).
 * **Pd x Pc** 94.2 % -> 97.9 % (medium). **Verified within T_resp** (all intruders): medium 37.1 % -> 39.0 %, Hot zone 48.9 % -> 51.0 %; low 19.5 % -> 19.4 %; high 69.5 % -> 73.2 %. **Patrol reached:** medium 84.5 % -> 87.6 %, low 66.5 % -> 65.8 %, high 85.3 % -> 88.6 %. Median verification time (medium) 486 s -> 494 s.
 * **Intruders NOT verified within T_resp even with one verification (medium): 62.9 % before, 61.0 % after** (the 63 % of the Stage 6 table). The siting model fixes the DAS misses; the T_resp limit remains and is about the drone side, not the detection.
-* Cost: 4 -> 6 interrogators, 11,373,506 -> 12,654,986 SAR (+1,281,480) when the Stage 9 rerun was made; with the shelter cost added on 24 Nov 2026 the siting model costs 13,014,986 SAR. The allocation (N and sites) did not change, so the Stage 9 results are unchanged. The Pd after the change is above the 0.969 assumed by the optimization because no event is farther than d* (14.75 km).
+* Cost (`results/stage9_siting/comparison.csv`, regenerated 24 Nov 2026 WITH the shelters): 4 -> 6 interrogators, 11,853,506 -> 13,014,986 SAR (+1,161,480). The 11,853,506 is the main model's 11,373,506 plus its four interrogators in new cabins (4 x 120,000); without any shelter cost the figures are 11,373,506 and 12,654,986. The allocation (N and sites) did not change with the shelter cost, so no Stage 9 result changed.

diff --git a/report/final/parameters_final.md b/report/final/parameters_final.md
@@ -1,6 +1,6 @@
 # Final parameter table (single table of the project: `config/parameters_reviewed.tsv`; full 10-column copy in `parameters_final.tsv`)
 
-171 rows. Status counts: ASSUMED 79, PLACEHOLDER 17, TBD 11, مبدئي 10, مقترح 9, مفترض 9, معتمد 6, مفترض (مبني على مصدر) 5, SIMULATED 5, SOURCED 4, اقتراح 4, proxy 3, مختار في الريبو 2, توضيحي 2, مشكوك في امره للغايه جدا 1, اقتراح – المدى الفعلي حول مكة 1, مفترض (موزع، VERIFY) 1, ان شاء الله 1, decided 1.
+172 rows. Status counts: ASSUMED 79, PLACEHOLDER 17, TBD 11, مبدئي 10, مقترح 9, مفترض 9, معتمد 6, SIMULATED 6, مفترض (مبني على مصدر) 5, SOURCED 4, اقتراح 4, proxy 3, مختار في الريبو 2, توضيحي 2, مشكوك في امره للغايه جدا 1, اقتراح – المدى الفعلي حول مكة 1, مفترض (موزع، VERIFY) 1, ان شاء الله 1, decided 1.
 
 Status legend: PLACEHOLDER = a value kept only to let the model run, to be replaced by data or a quotation; ASSUMED = engineering assumption with no source; SIMULATED / DERIVED = computed by the model; the rest are sourced (the source column names it).
 
@@ -22,6 +22,7 @@ Status legend: PLACEHOLDER = a value kept only to let the model run, to be repla
 | `N_DAS_int` | 4 | units | مقترح | derived | [DERIVED] ceil(L_boundary ÷ (N_ch_active × R_DAS)) = ceil(145.47 ÷ 40) |
 | `L_channel` | 18.18 | km | مقترح | derived | [DERIVED] L_boundary ÷ (N_DAS_int × N_ch_active) |
 | `P_DAS_total` | 680 | W | مقترح | derived | [DERIVED] N_DAS_int × P_DAS |
+| `P_total_siting` | 2040 | W | SIMULATED | derived | [DERIVED] N_DAS_int_siting x (P_DAS + P_shelter); gsma_coolsure for the cooling share |
 | `P_shelter` | 170 | W | مفترض (مبني على مصدر) | assumption | gsma_coolsure: التبريد 30–50% من حمل الموقع ← 0.43 إلى 1.0 × P_DAS = 73 إلى 170 W |
 | `C_shelter` | 120000 | SAR/unit | PLACEHOLDER | placeholder | PLACEHOLDER: no published Saudi price found (searched 24 Nov 2026; only cabinet-AC installation 500 SAR, labour only). Order of magnitude for an air-conditioned |
 | `L_leadin` | 0 | m | مفترض | assumption | افتراض: الكابينة على الحد نفسه |

diff --git a/report/final/OPEN_ITEMS.md b/report/final/OPEN_ITEMS.md
@@ -4,7 +4,7 @@
 | --- | --- | --- | --- |
 | `T_alert` | TBD | s |  |
 | `L_loc` | TBD | m | للعلم: الـ spatial resolution للجهاز من 1 إلى 50 m حسب الداتاشيت، فالرقم لازم يكون في هالمدى |
-| `C_shelter` | 120000 | SAR/unit | ناقصة: ما لقينا سعر. القيمة 0 تعني (ما انحسبت)، يعني C_total الحالي أقل من الحقيقي بمقدار 4 كبائن. تحتاج مصدر أو عرض سعر. قرار 22 نوفمبر |
+| `C_shelter` | 120000 | SAR/unit | [full-das 2026-11-24] 120,000 SAR per NEW cabin (road sites): PLACEHOLDER, needs a supplier quotation (no Saudi price found). Entrance checkpoints use C_shelter_checkpoint = 30,000 SAR (ASSUMED, exist |
 | `T_resp` | 300 | s | مرتبط بـ T_alert (لسا TBD عند الطالبة 1). الحساسية: 180 و600 s. قرار 22 نوفمبر |
 | `A_ver_min` | 0.9 | - | قيمة مؤقتة. الحساسية: 0.8 و0.95. قرار 22 نوفمبر |
 | `C_PS` | TBD | SAR/unit | ما تدخل في التغطية في هذي النسخة (موجودة عند المنافذ مع الكاميرات)، ومطفية بـ use_PS. قرار 21 نوفمبر |
@@ -30,3 +30,4 @@
 | `T_mission_s` | 900 | s | [full-das 2026-11-22] The optimization uses the steady-state availability A(n) (D8); the simulation uses the explicit state, so the two can differ. |
 | `T_patrol_busy_s` | 1800 | s | [full-das 2026-11-22]  |
 | `p_site_clear` | 0.99 | - | [full-das 2026-11-22] First run used Pc_CCTV = 0.85 for clearing: about 355 false patrol dispatches per day, not credible for guarded sites. |
+| `C_shelter_checkpoint` | 30000 | SAR/unit | [full-das 2026-11-24] Project lead 24 Nov 2026. Sensitivity 10-50 % of C_shelter. Needs a quotation for the equipment room. |

diff --git a/report/final/figures/CAPTIONS.md b/report/final/figures/CAPTIONS.md
@@ -7,7 +7,6 @@
 * `siting_map_medium.png` : 2D map of the interrogator siting (d* = 14.75 km, N_min = 5, N = 6): candidates, chosen shelters, boundary coloured by the serving shelter. Same result in low and high.  Source file: `results/siting/siting_map_medium.png`
 * `pd_curve.png` : Pd against the optical distance with the monotone fit and its 95 % limits; d* = 14.75 km. SIMULATED.  Source file: `results/siting/pd_curve.png`
 * `stage9_before_after.png` : Stage 9 before / after the siting model (medium): DAS misses by distance, Pd, Pd x Pc, verified in T_resp, patrol reached. SIMULATED, same random numbers.  Source file: `report/figures/stage9_before_after.png`
-* `map2d_intruders_medium_stage8.png` : 2D map of intruders, Stage 8 run (main model with 4 interrogators; kept for the numbers figures).  Source file: `report/figures/map2d_intruders_medium_stage8.png`
 * `reid_accuracy_vs_spacing.png` : Re-identification (DAS <-> camera) accuracy against the spacing of people (Yomna's protocol, SIMULATED).  Source file: `results/reid/accuracy_vs_spacing.png`
 
 The 3D figures are 1895 px wide (16 cm at 300 dpi); imagery attribution is printed on each. Made by `scripts/stage9_figures3d.m`, `scripts/final_stage9_chart.m`, `src/siting/siting_report.m`, `scripts/siting_pd_analyze.m`.
